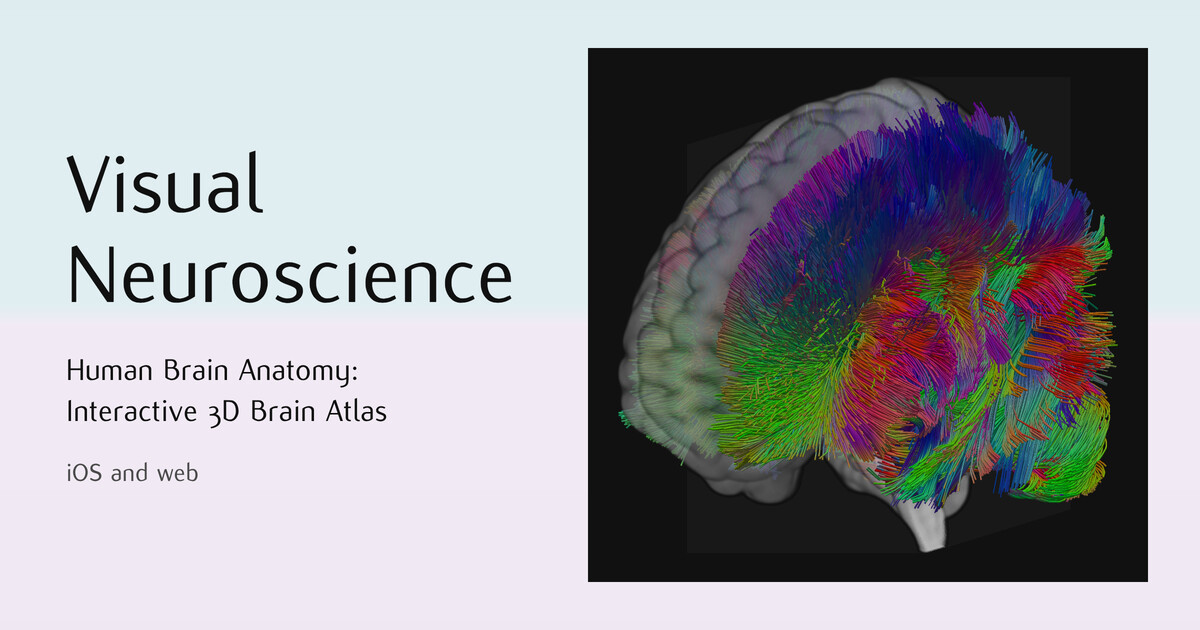
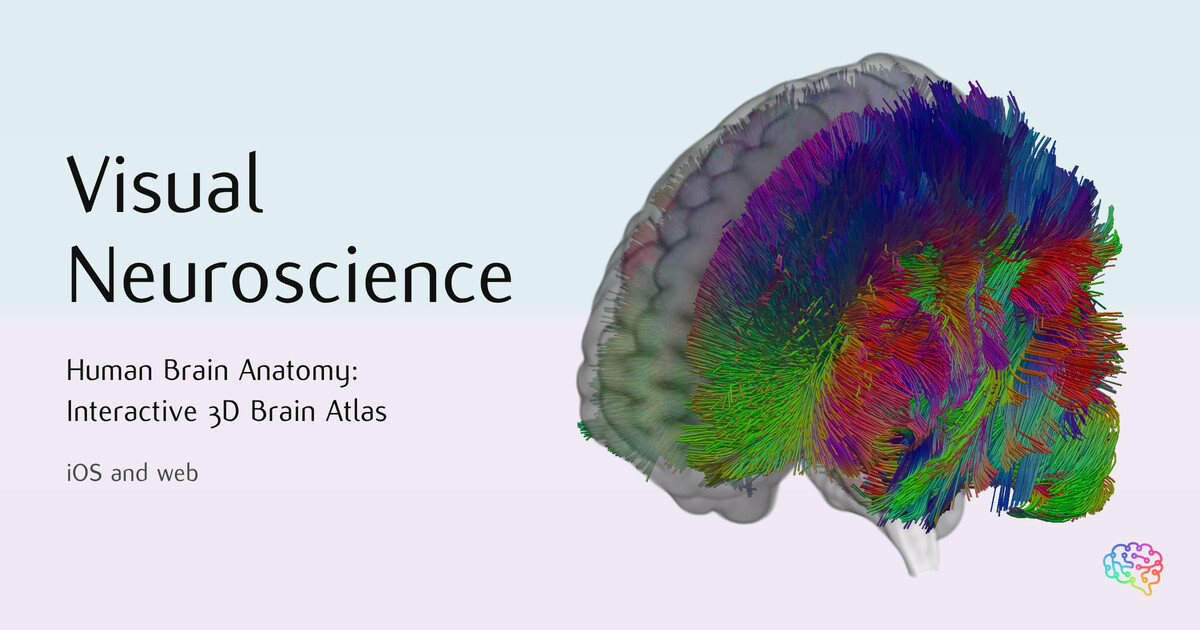
Stand the sharing card's tractogram on its backdrop with a clear ground, and put the brain mark at its corner
The card's tractogram is rendered again with the stage and the viewer's back made clear and the shot taken without a background, kept with its transparency as a WebP in place of the JPEG, so it stands on the card's light backdrop with no dark box round it. The brain mark from logo.svg stands at the card's bottom right corner. The card is shot again from the new picture.

diff --git a/app/scripts/shoot-social-card.js b/app/scripts/shoot-social-card.js
@@ -6,16 +6,17 @@
    Serves nothing itself: the site must be up on http://127.0.0.1:8412, as for the other picture scripts, and
    ImageMagick's convert must be on the path. First the tractogram is rendered as the store image has it (the state
    remake-store-images.js stands the page in, TRACT_STATE: the brain nearly solid, its left side's near half cut away,
-   the streamlines whole in the space, the same turn and zoom), the page's bars, sliders and handles hidden, cut to
-   the picture's own edges and written to site/assets/social/tractogram.jpg; then site/share.html, which lays the card
-   out, is shot at twice its size and brought down to 1200 by 630, site/assets/social-card.jpg, the og:image every
+   the streamlines whole in the space, the same turn and zoom), the page's bars, sliders and handles hidden and its
+   ground clear (v12.66), cut to the picture's own edges and written with its transparency to
+   site/assets/social/tractogram.webp; then site/share.html, which lays the card out, the brain mark at its foot's
+   right, is shot at twice its size and brought down to 1200 by 630, site/assets/social-card.jpg, the og:image every
    page names. "card" alone shoots the card from the tractogram already written. */
 const path = require('path'), fs = require('fs'), { execSync } = require('child_process');
 const { chromium } = require(path.join(execSync('npm root -g').toString().trim(), 'playwright'));
 
 const SITE = 'http://127.0.0.1:8412/';
 const ROOT = path.join(__dirname, '..', '..', 'site');
-const TRACT = path.join(ROOT, 'assets', 'social', 'tractogram.jpg');
+const TRACT = path.join(ROOT, 'assets', 'social', 'tractogram.webp');
 const CARD = path.join(ROOT, 'assets', 'social-card.jpg');
 const TMP = fs.mkdtempSync(path.join(require('os').tmpdir(), 'vn-card-'));
 const sh = (cmd) => execSync(cmd, { stdio: ['ignore', 'pipe', 'inherit'] }).toString().trim();
@@ -39,14 +40,18 @@ const TRACT_STATE = JSON.stringify({ v: 5, brain: { on: true, trans: 25 }, tract
     await page.evaluate(() => MN_TRACTS.brain());
     const ok = await page.evaluate(s => MN_TRACTS.restore(s), TRACT_STATE);
     if (!ok) throw new Error('the Tractography page has no MN_TRACTS.restore');
-    /* nothing of the page but the picture: the bars, the sliders, the handles and the notices go */
-    await page.addStyleTag({ content: '.slice-edge, .drawer-tab, .panelbar, .masthead, .vn-best, .vn-news, .tk-pick, #stageMsg{ visibility:hidden !important; }' });
+    /* nothing of the page but the picture: the bars, the sliders, the handles and the notices go, and the ground
+       goes clear (v12.66, at the owner's word), the stage's black and the streamlines' own back both, so the picture
+       stands on the card's backdrop with nothing round it */
+    await page.addStyleTag({ content: '.slice-edge, .drawer-tab, .panelbar, .masthead, .vn-best, .vn-news, .tk-pick, #stageMsg{ visibility:hidden !important; } '
+      + ':root[data-theme] body, :root[data-theme] body main, :root[data-theme] body .views .view[data-box="Ren"] .mri-stage, :root[data-theme] body .stage, :root[data-theme] body .deck{ background:transparent !important; }' });
+    await page.evaluate(() => { const nv = MN_TRACTS.nv(); nv.opts.backColor = [0, 0, 0, 0]; nv.drawScene(); });
     await page.waitForTimeout(12000);   /* the cut's rebuild, slow in software, comes to rest */
     const raw = path.join(TMP, 'tract.png');
-    await page.locator('.view[data-box="Ren"] .mri-stage').screenshot({ path: raw });
-    /* cut to the picture's edges on the stage's black, with a little of that black kept round it */
-    sh(`convert "${raw}" -bordercolor "#111111" -border 4 -fuzz 4% -trim +repage -bordercolor "#111111" -border 90 -quality 92 "${TRACT}"`);
-    console.log('tractogram.jpg', sh(`identify -format "%wx%h" "${TRACT}"`));
+    await page.locator('.view[data-box="Ren"] .mri-stage').screenshot({ path: raw, omitBackground: true });
+    /* cut to the picture's own edges, with a little clear room kept round it */
+    sh(`convert "${raw}" -fuzz 6% -trim +repage -bordercolor none -border 40 -define webp:alpha-quality=100 -quality 92 "${TRACT}"`);
+    console.log(path.basename(TRACT), sh(`identify -format "%wx%h" "${TRACT}"`));
     await ctx.close();
   }
 

diff --git a/site/share.html b/site/share.html
@@ -57,11 +57,13 @@ body{
   font-family:'Flux','Afacad Flux',sans-serif; font-weight:400;
   font-size:27px; line-height:1.2; letter-spacing:.01em; color:#4A4A4A;
 }
-.shot{
-  position:absolute; right:52px; top:48px; bottom:48px; width:560px;
-  background:#111111; border:2px solid rgba(17,17,17,.28); overflow:hidden;
-}
-.shot img{ display:block; width:100%; height:100%; object-fit:cover; object-position:50% 50%; }
+/* the tractogram on the backdrop itself, its ground clear (v12.66, at the owner's word; framed on the app's black
+   in v12.64 and v12.65) */
+.shot{ position:absolute; right:58px; top:28px; bottom:28px; width:580px; }
+.shot img{ display:block; width:100%; height:100%; object-fit:contain; object-position:50% 50%; }
+/* the brain mark at the foot's right (v12.66, at the owner's word) */
+.mark{ position:absolute; right:34px; bottom:28px; width:66px; height:66px; }
+.mark img{ display:block; width:100%; height:100%; object-fit:contain; }
 
 .note{
   font-family:'Newsreader',Georgia,serif; font-style:italic;
@@ -87,10 +89,11 @@ body{
     <p class="sub">Human Brain Anatomy:<br>Interactive 3D Brain Atlas</p>
     <p class="where">iOS and web</p>
   </div>
-  <div class="shot"><img src="assets/social/tractogram.jpg" alt="The tractogram, the brain's wiring in colour, standing in the brain with its near half cut away" width="1787" height="1711"></div>
+  <div class="shot"><img src="assets/social/tractogram.webp" alt="The tractogram, the brain's wiring in colour, standing in the brain with its near half cut away"></div>
+  <div class="mark"><img src="assets/logo.svg" alt="VisualNeuroscience.AI"></div>
 </div>
 
-<p class="note">The sharing card, at its true size of <b>1200&thinsp;&times;&thinsp;630</b> — the ratio link previews crop to. The picture is the tractogram of the iOS store image, Wiring System Tractogram, in the same state without the app&rsquo;s bars, and the words are the title and the heading line of the first store image, in the store images&rsquo; own type, ink and backdrop. <b>app/scripts/shoot-social-card.js</b> renders the tractogram to <b>assets/social/tractogram.jpg</b> and the card to <b>assets/social-card.jpg</b>, which every page points at for <b>og:image</b>.</p>
+<p class="note">The sharing card, at its true size of <b>1200&thinsp;&times;&thinsp;630</b> — the ratio link previews crop to. The picture is the tractogram of the iOS store image, Wiring System Tractogram, in the same state without the app&rsquo;s bars and on a clear ground, standing on the backdrop itself; the words are the title and the heading line of the first store image, in the store images&rsquo; own type, ink and backdrop, with where it runs beneath; and the brain mark stands at the foot&rsquo;s right. <b>app/scripts/shoot-social-card.js</b> renders the tractogram to <b>assets/social/tractogram.webp</b> and the card to <b>assets/social-card.jpg</b>, which every page points at for <b>og:image</b>.</p>
 
 <script>
 /* the App Store images' light backdrop, by store-sell.js's own sums: the viewer's two light colours split at a

diff --git a/CLAUDE.md b/CLAUDE.md
@@ -161,9 +161,11 @@ Read this first in every session. It is the handover; nothing else needs pasting
   shot to `assets/social-card.jpg`, the `og:image` every page names with the `og:image:alt` to match, is the App Store
   images' manner at 1200×630: their light backdrop by `store-sell.js`'s own sums, the title Visual Neuroscience and,
   beneath it, the first store image's heading line, Human Brain Anatomy: Interactive 3D Brain Atlas, in Flux in the
-  ink, under that, quieter, iOS and web (v12.65, at the owner's word), and at the right the tractogram of the iOS store image, Wiring System Tractogram, framed as the store frames its
-  screens; `app/scripts/shoot-social-card.js` renders that tractogram in the store shot's state without the page's
-  bars to `assets/social/tractogram.jpg` and shoots the card at twice its size, brought down to 1200×630, `card` alone
+  ink, under that, quieter, iOS and web (v12.65, at the owner's word), and at the right the tractogram of the iOS store image, Wiring System Tractogram, standing on the backdrop itself
+  with its ground clear since v12.66, at the owner's word (framed on the app's black until then), the brain mark
+  (`logo.svg`) at the foot's right since the same release; `app/scripts/shoot-social-card.js` renders that tractogram
+  in the store shot's state without the page's bars, the stage and the viewer's back made clear and the shot taken
+  with no background, to `assets/social/tractogram.webp` with its transparency, and shoots the card at twice its size, brought down to 1200×630, `card` alone
   shooting the card from the tractogram already there; the slices `make_social.py` cut stay for the feature graphic);
   the posters inline it from `logo.svg` (`logo_svg()` in `scripts/posters/common.py`; their pictures in
   `site/assets/posters/` were cut again from the posters re-rendered with it); and the browser's store screenshots were

diff --git a/docs/RELEASES.md b/docs/RELEASES.md
@@ -11,8 +11,13 @@ text below. Both can also be run from a clone on a machine that can push.
 
 Versions before v8.6 were released without a ledger and are not recorded.
 
+## v12.66 — 29 October 2026 — The sharing card's tractogram on a clear ground, with the brain mark
+Commit · Stand the sharing card's tractogram on its backdrop with a clear ground, and put the brain mark at its corner
+
+The tractogram on the sharing card no longer sits in a dark box: rendered again with a clear ground, the brain and its wiring stand straight on the card's pale backdrop, the brain's surface reading as glass over it. The brain mark now stands in the bottom right corner.
+
 ## v12.65 — 29 October 2026 — The sharing card says iOS and web
-Commit · Add iOS and web under the sharing card's heading line
+Commit `9eedf73` · Add iOS and web under the sharing card's heading line
 
 The sharing card now says where Visual Neuroscience runs: iOS and web, under Human Brain Anatomy: Interactive 3D Brain Atlas, so a shared link shows at a glance that the atlas is an app and a website.
 
